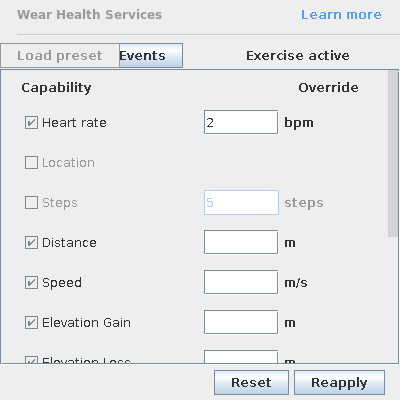
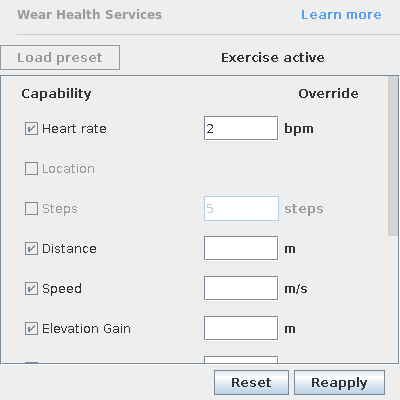
Restore three dots instead of "Events"
... to match figma.

Fixes: 373350559
Test: //tools/adt/idea/wear-whs:intellij.android.wear-whs_tests

diff --git a/wear-whs/src/com/android/tools/idea/wearwhs/view/WearHealthServicesPanel.kt b/wear-whs/src/com/android/tools/idea/wearwhs/view/WearHealthServicesPanel.kt
@@ -26,9 +26,13 @@ import com.intellij.ide.BrowserUtil
 import com.intellij.openapi.actionSystem.ActionGroup
 import com.intellij.openapi.actionSystem.ActionManager
 import com.intellij.openapi.actionSystem.ActionPlaces
+import com.intellij.openapi.actionSystem.ActionToolbar
 import com.intellij.openapi.actionSystem.ActionUpdateThread
 import com.intellij.openapi.actionSystem.AnAction
 import com.intellij.openapi.actionSystem.AnActionEvent
+import com.intellij.openapi.actionSystem.ex.ActionUtil
+import com.intellij.openapi.actionSystem.ex.CustomComponentAction
+import com.intellij.openapi.actionSystem.impl.ActionButton
 import com.intellij.openapi.ui.JBPopupMenu
 import com.intellij.openapi.ui.VerticalFlowLayout
 import com.intellij.ui.components.ActionLink
@@ -46,6 +50,7 @@ import java.awt.Dimension
 import java.awt.FlowLayout
 import java.awt.Font
 import java.awt.Toolkit
+import java.lang.Boolean.TRUE
 import java.util.Collections
 import javax.swing.JButton
 import javax.swing.JCheckBox
@@ -422,7 +427,7 @@ internal fun createWearHealthServicesPanel(
   )
 }
 
-private fun createTriggerEventGroupsButton(triggerEvent: (EventTrigger) -> Unit): JButton {
+private fun createTriggerEventGroupsButton(triggerEvent: (EventTrigger) -> Unit): ActionButton {
   val eventTriggerGroupActions =
     EVENT_TRIGGER_GROUPS.map { eventTriggerGroup ->
       val eventTriggerActions =
@@ -434,17 +439,20 @@ private fun createTriggerEventGroupsButton(triggerEvent: (EventTrigger) -> Unit)
       }
     }
   val eventTriggerGroups =
-    DropDownAction(null, null, null).apply { addAll(eventTriggerGroupActions) }
+    DropDownAction(null, null, AllIcons.Actions.More).apply { addAll(eventTriggerGroupActions) }
 
-  return JButton(message("wear.whs.panel.trigger.events")).apply {
-    toolTipText = message("wear.whs.panel.trigger.events.tooltip")
-    isFocusable = true
-    addActionListener {
-      val popup =
-        ActionManager.getInstance().createActionPopupMenu(ActionPlaces.POPUP, eventTriggerGroups)
-      JBPopupMenu.showBelow(this, popup.component)
+  return ActionButton(
+      eventTriggerGroups,
+      eventTriggerGroups.templatePresentation.clone(),
+      ActionPlaces.EDITOR_POPUP,
+      ActionToolbar.DEFAULT_MINIMUM_BUTTON_SIZE,
+    )
+    .apply {
+      presentation.putClientProperty(ActionUtil.HIDE_DROPDOWN_ICON, TRUE)
+      presentation.putClientProperty(CustomComponentAction.COMPONENT_KEY, this)
+      presentation.text = message("wear.whs.panel.trigger.events.tooltip")
+      isFocusable = true
     }
-  }
 }
 
 private fun createEventTriggerAction(

diff --git a/wear-whs/testSrc/com/android/tools/idea/wearwhs/view/WearHealthServicesPanelTest.kt b/wear-whs/testSrc/com/android/tools/idea/wearwhs/view/WearHealthServicesPanelTest.kt
@@ -36,8 +36,8 @@ import com.android.tools.idea.wearwhs.communication.FakeDeviceManager
 import com.google.common.truth.Truth.assertThat
 import com.intellij.icons.AllIcons
 import com.intellij.ide.BrowserUtil
-import com.intellij.openapi.actionSystem.ActionGroup
 import com.intellij.openapi.actionSystem.ActionManager
+import com.intellij.openapi.actionSystem.ex.ActionManagerEx
 import com.intellij.openapi.application.ApplicationManager
 import com.intellij.openapi.application.runInEdt
 import com.intellij.openapi.util.Disposer
@@ -66,9 +66,10 @@ import org.junit.Before
 import org.junit.Rule
 import org.junit.Test
 import org.mockito.Mockito.anyString
-import org.mockito.Mockito.mock
 import org.mockito.Mockito.mockStatic
+import org.mockito.Mockito.spy
 import org.mockito.kotlin.any
+import org.mockito.kotlin.doAnswer
 import org.mockito.kotlin.whenever
 
 @RunsInEdt
@@ -110,17 +111,15 @@ class WearHealthServicesPanelTest {
         .also { Disposer.register(projectRule.testRootDisposable, it) }
         .also { it.serialNumber = "some serial number" }
 
-    val mockActionManager = mock<ActionManager>()
-    whenever(mockActionManager.createActionPopupMenu(anyString(), any())).then { invocation ->
-      fakePopup = FakeActionPopupMenu(invocation.getArgument(1))
-      fakePopup
-    }
+    val actionManager = spy(ActionManager.getInstance() as ActionManagerEx)
+    doAnswer { invocation ->
+        fakePopup = FakeActionPopupMenu(invocation.getArgument(1))
+        fakePopup
+      }
+      .whenever(actionManager)
+      .createActionPopupMenu(anyString(), any())
     ApplicationManager.getApplication()
-      .replaceService(
-        ActionManager::class.java,
-        mockActionManager,
-        projectRule.testRootDisposable,
-      )
+      .replaceService(ActionManager::class.java, actionManager, projectRule.testRootDisposable)
   }
 
   @Test
@@ -266,7 +265,7 @@ class WearHealthServicesPanelTest {
     val eventsButton = fakeUi.triggerEventsButton()
     assertThat(eventsButton).isNotNull()
 
-    eventsButton.doClick()
+    eventsButton.click()
 
     val eventTriggerGroups = fakePopup.getActions().mapNotNull { it as? DropDownAction }
     assertThat(eventTriggerGroups).hasSize(EVENT_TRIGGER_GROUPS.size)

diff --git a/wear-whs/testSrc/com/android/tools/idea/wearwhs/view/WearHealthServicesPanelControllerTest.kt b/wear-whs/testSrc/com/android/tools/idea/wearwhs/view/WearHealthServicesPanelControllerTest.kt
@@ -29,8 +29,8 @@ import com.google.common.truth.Truth.assertThat
 import com.intellij.notification.Notification
 import com.intellij.notification.NotificationType
 import com.intellij.notification.NotificationsManager
-import com.intellij.openapi.actionSystem.ActionGroup
 import com.intellij.openapi.actionSystem.ActionManager
+import com.intellij.openapi.actionSystem.ex.ActionManagerEx
 import com.intellij.openapi.application.ApplicationManager
 import com.intellij.openapi.util.Disposer
 import com.intellij.testFramework.EdtRule
@@ -48,7 +48,9 @@ import org.junit.Rule
 import org.junit.Test
 import org.mockito.Mockito.anyString
 import org.mockito.Mockito.mock
+import org.mockito.Mockito.spy
 import org.mockito.kotlin.any
+import org.mockito.kotlin.doAnswer
 import org.mockito.kotlin.whenever
 
 @RunsInEdt
@@ -96,17 +98,15 @@ class WearHealthServicesPanelControllerTest {
         workerScope = workerScope,
       )
 
-    val mockActionManager = mock<ActionManager>()
-    whenever(mockActionManager.createActionPopupMenu(anyString(), any())).then { invocation ->
-      fakePopup = FakeActionPopupMenu(invocation.getArgument(1))
-      fakePopup
-    }
+    val actionManager = spy(ActionManager.getInstance() as ActionManagerEx)
+    doAnswer { invocation ->
+        fakePopup = FakeActionPopupMenu(invocation.getArgument(1))
+        fakePopup
+      }
+      .whenever(actionManager)
+      .createActionPopupMenu(anyString(), any())
     ApplicationManager.getApplication()
-      .replaceService(
-        ActionManager::class.java,
-        mockActionManager,
-        projectRule.testRootDisposable,
-      )
+      .replaceService(ActionManager::class.java, actionManager, projectRule.testRootDisposable)
   }
 
   @Test

diff --git a/wear-whs/testSrc/com/android/tools/idea/wearwhs/view/WearHealthServicesTestUtil.kt b/wear-whs/testSrc/com/android/tools/idea/wearwhs/view/WearHealthServicesTestUtil.kt
@@ -23,6 +23,8 @@ import com.android.tools.idea.concurrency.awaitStatus
 import com.android.tools.idea.testing.ui.FakeActionPopupMenu
 import com.android.tools.idea.wearwhs.WearWhsBundle.message
 import com.android.tools.idea.wearwhs.view.WearHealthServicesStateManagerTest.Companion.TEST_MAX_WAIT_TIME_SECONDS
+import com.intellij.icons.AllIcons
+import com.intellij.openapi.actionSystem.impl.ActionButton
 import com.intellij.testFramework.TestActionEvent.createTestEvent
 import java.util.concurrent.TimeUnit
 import javax.swing.JButton
@@ -56,14 +58,14 @@ internal inline fun <reified T> FakeUi.waitForDescendant(
 }
 
 internal fun FakeUi.triggerEventsButton() =
-  waitForDescendant<JButton> { it.text == message("wear.whs.panel.trigger.events") }
+  waitForDescendant<ActionButton> { it.icon == AllIcons.Actions.More }
 
 internal fun FakeUi.clickOnTriggerEvent(
   fakePopupProvider: () -> FakeActionPopupMenu,
   eventName: String? = null,
 ) {
   val triggerEventsButton = triggerEventsButton()
-  triggerEventsButton.doClick()
+  triggerEventsButton.click()
 
   val triggerEventActions =
     fakePopupProvider().getActions().flatMap {
